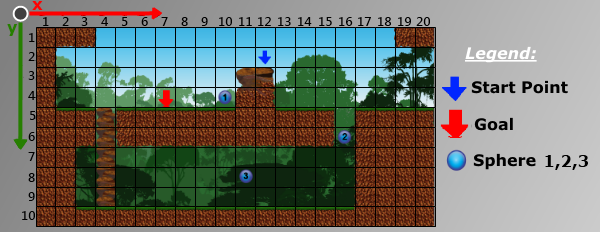
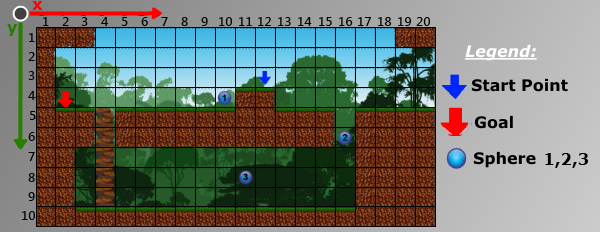
game translated. LD 6 stages done.

diff --git a/tcc/TCC/src/data/storage/level/FasesDados.java b/tcc/TCC/src/data/storage/level/FasesDados.java
@@ -13,9 +13,9 @@ public class FasesDados {
         fase[2] = new FasesDadosNode(2, "Proto can scan any square in the stage. The method scan(x, y) returns information about a square in the stage. This way, Proto can know if there is a hole in front and he must jump, for example.", false);
         fase[3] = new FasesDadosNode(3, "There is an opportunity to practice jumps. Use the scan method and dominate the jumps, getting all 3 spheres and proving that you rock!", false);
         fase[4] = new FasesDadosNode(4, "Try to get all the spheres in order(1,2,3). Proto have functions to work with directions, and he also can know where is the 'next' sphere.", false);
-        fase[5] = new FasesDadosNode(5, "Proto pode identificar, subir, e descer escadas. Quando ele sobe, vai até o fim da escada. Ao descer, vai até o fim também. Veja a documentação para mais detalhes. É importante que você teste e treine neste cenário até dominar as escadas, pois será importante mais pra frente.\nDica: Proto tem problemas com escadas. Você deve achar um jeito de sair de perto da escada após subir/descer ela, ou então o robô pode ficar subindo e descendo sem parar.", false);
-        fase[6] = new FasesDadosNode(6, "As escadas podem ser diferentes dependendo do tipo de cenário. Nesta fase por exemplo, ele usa rochas empilhadas como escada, o funcionamento é o mesmo. Use o que aprendeu sobre sentidos e escadas, e tente fazer uma boa pontuação.", false);
-        fase[7] = new FasesDadosNode(7, "Neste momento, você ja está preparado para ajudar Proto em desafios maiores. Este cenário exige um pouco de tudo que você aprendeu e praticou: saber quando pular, quando pode cair, inteligência para escolher o sentido, subir e descer escadas, pegar esferas em sequência e chegar ao objetivo. Dê o seu melhor!", false);
+        fase[5] = new FasesDadosNode(5, "Proto can identify and climb stairs. One single command is enough to make Proto climb the entire stair and stand again. Use the spheres to guide your movement, otherwise Proto can do climb up and down forever.", false);
+        fase[6] = new FasesDadosNode(6, "Stairs can look different in certain stages. In this one for example, the stairs are made of rocks. Use direction and climbing skills to do the best score.", false);
+        //fase[7] = new FasesDadosNode(7, "Neste momento, você ja está preparado para ajudar Proto em desafios maiores. Este cenário exige um pouco de tudo que você aprendeu e praticou: saber quando pular, quando pode cair, inteligência para escolher o sentido, subir e descer escadas, pegar esferas em sequência e chegar ao objetivo. Dê o seu melhor!", false);
        // fase[8] = new FasesDadosNode(8, "Esta fase não é oficial.", false);
         //fase[9] = new FasesDadosNode(9, "Esta fase não é oficial.", false);
 

diff --git a/tcc/TCC/src/gamer/InfoCenter.java b/tcc/TCC/src/gamer/InfoCenter.java
@@ -3,6 +3,7 @@ package gamer;
 import java.io.BufferedReader;
 import java.io.FileReader;
 import java.io.IOException;
+import org.newdawn.slick.tiled.TiledMap;
 import util.Universal;
 
 public class InfoCenter {
@@ -65,9 +66,40 @@ public class InfoCenter {
         } catch(IOException e){
             
         }
+    }
+    
+    public static void carregaMapa(TiledMap world) {
+        int tileId;
         
-        //printMap();
-
+        for (int i = 0; i < world.getWidth(); i++) {
+            for (int j = 0; j < world.getHeight(); j++) {
+                tileId = world.getTileId(i, j, world.getLayerIndex("main"));
+                
+                if(world.getTileProperty(tileId, "type", "null").equalsIgnoreCase("solid") &&
+                   world.getTileProperty(tileId, "name", "null").equalsIgnoreCase("ground")     ){
+                    //
+                    map[i][j] = 1;
+                }
+                
+                else if(world.getTileProperty(tileId, "type", "null").equalsIgnoreCase("nonsolid") &&
+                   world.getTileProperty(tileId, "name", "null").equalsIgnoreCase("stairs")     ){
+                    //
+                    map[i][j] = 2;
+                }
+                
+                else if(world.getTileProperty(tileId, "type", "null").equalsIgnoreCase("solid") &&
+                   world.getTileProperty(tileId, "name", "null").equalsIgnoreCase("stairsGround")     ){
+                    //
+                    map[i][j] = 5;
+                }
+                
+                else {
+                    //
+                    map[i][j] = 0;
+                }
+            }
+        }
+        
     }
     
     public static void printMap(){

diff --git a/tcc/TCC/src/gamer/Proto.java b/tcc/TCC/src/gamer/Proto.java
@@ -107,7 +107,12 @@ public class Proto {
     
     public static int globalScan(int x, int y){
         if(x>0 && y > 0 && x <= 20 && y <= 10){
-            return InfoCenter.map[x-1][y-1];
+            if((x == Sphere1.x && y == Sphere1.y) || (x == Sphere2.x && y == Sphere2.y) || (x == Sphere3.x && y == Sphere3.y))
+                return InfoCenter.map_esfera;
+            else if (x == Goal.x && y == Goal.y)
+                 return InfoCenter.map_objetivo;
+            else
+                return InfoCenter.map[x-1][y-1];
         } else {
             return 0;
         }

diff --git a/tcc/TCC/src/game/CollisionManager.java b/tcc/TCC/src/game/CollisionManager.java
@@ -66,11 +66,8 @@ public class CollisionManager {
                    world.getTileProperty(tileId, "name", "null").equalsIgnoreCase("stairsGround")     ){
                     objects.add(new GameObject(GameObject.TYPE_SOLID, GameObject.NAME_STAIRS_AND_GROUND,
                                 i * 50, j * 50, new Rectangle(i * 50, j * 50, 50, 50)));
-                    
                 }
-                
             }
-            
         }
     }
     

diff --git a/tcc/TCC/src/util/Universal.java b/tcc/TCC/src/util/Universal.java
@@ -9,7 +9,7 @@ public class Universal {
     public static String plataforma = "Windows";
     
     public static String playerFolderPath = System.getProperty("user.home") + java.io.File.separator + "tcc";
-    public static int quantidadeFases = 7;
+    public static int quantidadeFases = 6;
     
     public static int currentFaseId;
     public static String currentCode;

diff --git a/tcc/TCC/src/game/Game.java b/tcc/TCC/src/game/Game.java
@@ -206,7 +206,7 @@ public class Game extends BasicGameState {
     }
 
     public void initCamadaGamer() {
-        InfoCenter.carregaMapa();
+        InfoCenter.carregaMapa(world);
         InfoCenter.zeraRobotActions();
         Proto.setDirectionToRight();
         
